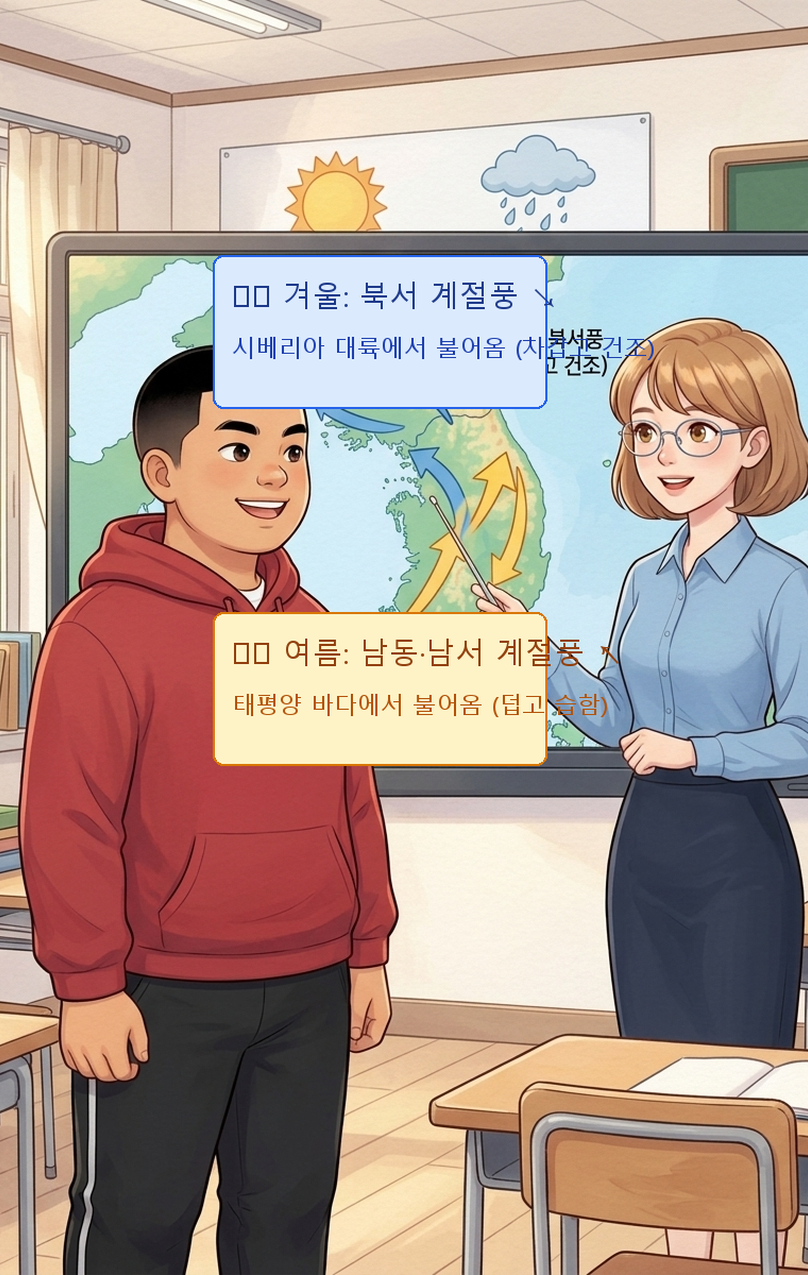
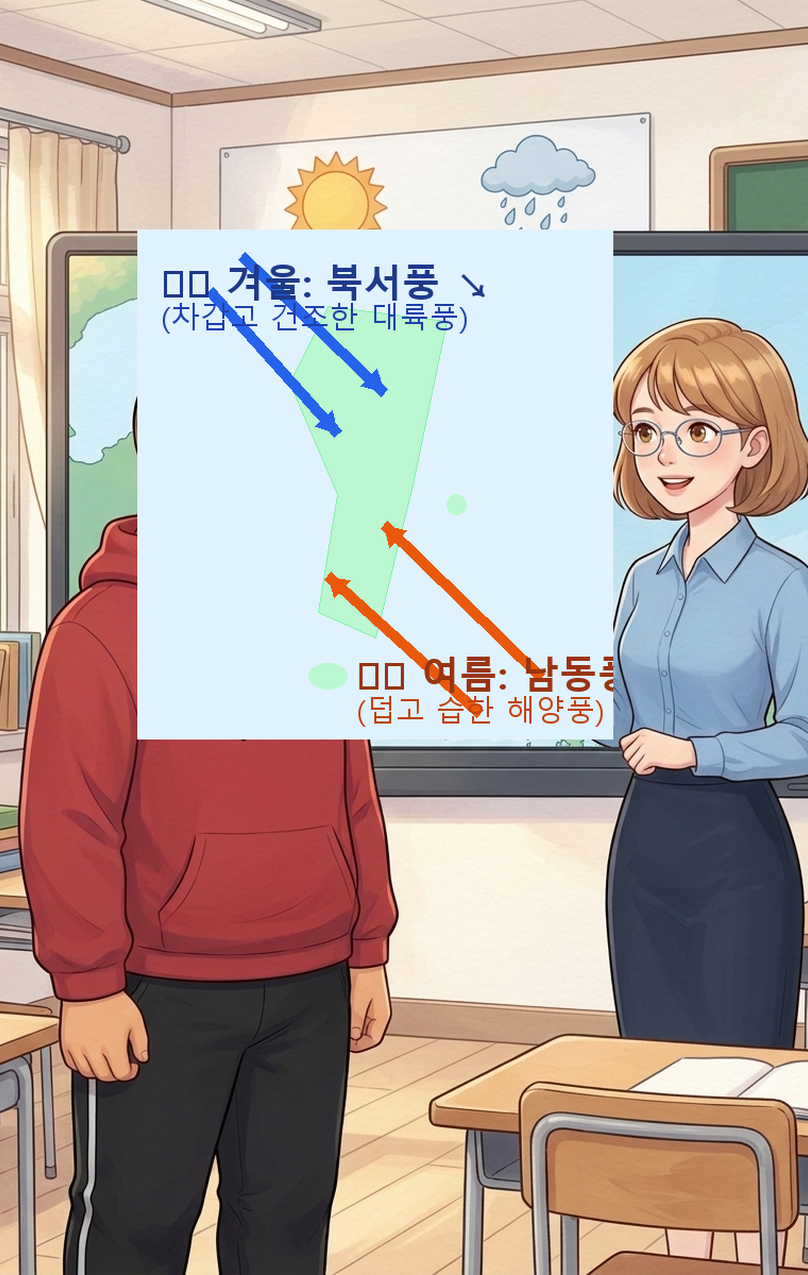
fix(society): 2장 칠판 지도 화살표 순수 도식화(겨울 ↘, 여름 ↖) & 모바일 세로 뷰 와이드 컴팩트 글밥 카드로 그림 비중 극대화

Changed region(s): [[0.1547, 0.1529, 0.7735, 0.6118]]

diff --git a/kids/subjects/society/climate_storybook.html b/kids/subjects/society/climate_storybook.html
@@ -116,11 +116,11 @@
     .auto-read-label input { width: 16px; height: 16px; accent-color: #10b981; cursor: pointer; }
 
     /* ========================================================
-       2. 📜 웹툰 스크롤 모드 (대형 그림 + 아래 큼직한 글밥 분리 뷰)
+       2. 📜 웹툰 스크롤 모드 (대형 그림 + 와이드 컴팩트 글밥 카드)
        ======================================================== */
     .webtoon-container {
-        display: none; max-width: 680px; width: 100%; margin: 15px auto;
-        padding: 0 10px 40px 10px; flex-direction: column; gap: 35px;
+        display: none; max-width: 650px; width: 100%; margin: 15px auto;
+        padding: 0 10px 40px 10px; flex-direction: column; gap: 30px;
     }
     .webtoon-sticky-bar {
         position: sticky; top: 60px; z-index: 90;
@@ -136,29 +136,28 @@
     }
     .continuous-btn.playing { background: linear-gradient(135deg, #f59e0b 0%, #d97706 100%); }
 
-    /* 웹툰 각 단원 카드 */
     .webtoon-card {
         background: #1e293b; border-radius: 20px; overflow: hidden;
         box-shadow: 0 15px 35px rgba(0,0,0,0.6); border: 2px solid #334155;
         display: flex; flex-direction: column;
     }
     .webtoon-header {
-        padding: 12px 16px; background: #0f172a; display: flex;
+        padding: 10px 16px; background: #0f172a; display: flex;
         justify-content: space-between; align-items: center; border-bottom: 1px solid #334155;
     }
     .webtoon-tag {
-        font-family: 'Jua', sans-serif; font-size: 1rem; color: #34d399;
+        font-family: 'Jua', sans-serif; font-size: 0.95rem; color: #34d399;
         display: flex; align-items: center; gap: 6px;
     }
     .btn-card-audio {
-        padding: 6px 14px; border-radius: 10px; border: none; font-family: 'Jua', sans-serif;
-        font-size: 0.9rem; color: white; background: #334155; cursor: pointer;
+        padding: 5px 12px; border-radius: 10px; border: none; font-family: 'Jua', sans-serif;
+        font-size: 0.88rem; color: white; background: #334155; cursor: pointer;
         display: inline-flex; align-items: center; gap: 6px; transition: all 0.2s;
     }
     .btn-card-audio:hover { background: #475569; }
     .btn-card-audio.playing { background: #f59e0b; }
 
-    /* 🖼 상단 대형 삽화 */
+    /* 🖼 상단 대형 삽화 (화면의 주인공!) */
     .webtoon-ill-wrap {
         width: 100%; background: #0f172a; overflow: hidden;
     }
@@ -166,14 +165,14 @@
         width: 100%; height: auto; display: block; object-fit: contain;
     }
 
-    /* 📝 하단 큼직한 글밥 카드 */
+    /* 📝 하단 와이드 컴팩트 글밥 카드 (여백 최소화, 시원한 가로 꽉 채움) */
     .webtoon-txt-wrap {
-        background: #f8fafc; padding: 12px; display: flex;
-        justify-content: center; align-items: center; border-top: 3px solid #10b981;
+        background: #0f172a; padding: 6px 8px 8px 8px; display: flex;
+        justify-content: center; align-items: center;
     }
     .webtoon-txt-img {
         width: 100%; height: auto; display: block; object-fit: contain;
-        border-radius: 8px;
+        border-radius: 12px; box-shadow: 0 4px 15px rgba(0,0,0,0.3);
     }
 
     @media (max-width: 768px) {
@@ -201,9 +200,7 @@
     </div>
 </div>
 
-<!-- ============================================================
-     1. 📖 책 넘김 뷰어 (E-Book Spread View)
-     ============================================================ -->
+<!-- 1. 📖 책 넘김 뷰어 -->
 <div class="ebook-container" id="ebookView">
     <div class="book-frame">
         <img src="../../subjects/society/images/storybook/climate/climate_story_p1.png" alt="동화책 페이지" class="book-spread-img" id="ebookImg">
@@ -226,12 +223,10 @@
     </div>
 </div>
 
-<!-- ============================================================
-     2. 📜 웹툰 스크롤 뷰어 (상단 대형 그림 + 하단 큼직한 글밥 분리 뷰)
-     ============================================================ -->
+<!-- 2. 📜 웹툰 스크롤 뷰어 -->
 <div class="webtoon-container" id="webtoonView">
     <div class="webtoon-sticky-bar">
-        <div style="font-family:'Jua', sans-serif; font-size:1rem; color:#34d399;">
+        <div style="font-family:'Jua', sans-serif; font-size:0.95rem; color:#34d399;">
             🎧 전체 1~10장 연속 구연동화 듣기
         </div>
         <button class="continuous-btn" id="continuousBtn" onclick="toggleContinuousPlay()">
@@ -239,7 +234,7 @@
         </button>
     </div>
 
-    <div id="webtoonCardList" style="display:flex; flex-direction:column; gap:35px;"></div>
+    <div id="webtoonCardList" style="display:flex; flex-direction:column; gap:30px;"></div>
 </div>
 
 <audio id="mainAudio" preload="auto"></audio>
@@ -259,7 +254,7 @@
             tag: "🌤 1장 : 날씨와 기후의 차이점 (61쪽)",
             spreadImg: "climate_story_p2.png",
             illImg: "climate_ill_p2.png",
-            txtImg: "climate_txt_p2.png",
+            txtImg: "climate_txt_mobile_p2.png",
             audio: "../../assets/audio/storybook/climate/climate_story_p2.mp3"
         },
         {
@@ -267,7 +262,7 @@
             tag: "🌬 2장 : 계절마다 부는 바람의 성질 (63쪽)",
             spreadImg: "climate_story_p3.png",
             illImg: "climate_ill_p3.png",
-            txtImg: "climate_txt_p3.png",
+            txtImg: "climate_txt_mobile_p3.png",
             audio: "../../assets/audio/storybook/climate/climate_story_p3.mp3"
         },
         {
@@ -275,7 +270,7 @@
             tag: "🌡 3장 : 남북의 기온 차이와 위도 (64~65쪽)",
             spreadImg: "climate_story_p4.png",
             illImg: "climate_ill_p4.png",
-            txtImg: "climate_txt_p4.png",
+            txtImg: "climate_txt_mobile_p4.png",
             audio: "../../assets/audio/storybook/climate/climate_story_p4.mp3"
         },
         {
@@ -283,7 +278,7 @@
             tag: "🌧 4장 : 강수량 특징과 지역별 차이 (66~67쪽)",
             spreadImg: "climate_story_p5.png",
             illImg: "climate_ill_p5.png",
-            txtImg: "climate_txt_p5.png",
+            txtImg: "climate_txt_mobile_p5.png",
             audio: "../../assets/audio/storybook/climate/climate_story_p5.mp3"
         },
         {
@@ -291,7 +286,7 @@
             tag: "⚡ 5장 : 계절별 자연재해의 이해 (68~69쪽)",
             spreadImg: "climate_story_p6.png",
             illImg: "climate_ill_p6.png",
-            txtImg: "climate_txt_p6.png",
+            txtImg: "climate_txt_mobile_p6.png",
             audio: "../../assets/audio/storybook/climate/climate_story_p6.mp3"
         },
         {
@@ -299,7 +294,7 @@
             tag: "🛡 6장 : 재난 안전 행동 요령 (70쪽)",
             spreadImg: "climate_story_p7.png",
             illImg: "climate_ill_p7.png",
-            txtImg: "climate_txt_p7.png",
+            txtImg: "climate_txt_mobile_p7.png",
             audio: "../../assets/audio/storybook/climate/climate_story_p7.mp3"
         },
         {
@@ -307,7 +302,7 @@
             tag: "🌍 7장 : 지구 온난화의 심각성 (73쪽)",
             spreadImg: "climate_story_p8.png",
             illImg: "climate_ill_p8.png",
-            txtImg: "climate_txt_p8.png",
+            txtImg: "climate_txt_mobile_p8.png",
             audio: "../../assets/audio/storybook/climate/climate_story_p8.mp3"
         },
         {
@@ -315,7 +310,7 @@
             tag: "⚠ 8장 : 심해지는 이상 기후와 피해 (74~75쪽)",
             spreadImg: "climate_story_p9.png",
             illImg: "climate_ill_p9.png",
-            txtImg: "climate_txt_p9.png",
+            txtImg: "climate_txt_mobile_p9.png",
             audio: "../../assets/audio/storybook/climate/climate_story_p9.mp3"
         },
         {
@@ -323,7 +318,7 @@
             tag: "🌱 9장 : 우리가 실천할 기후 행동 (78쪽)",
             spreadImg: "climate_story_p10.png",
             illImg: "climate_ill_p10.png",
-            txtImg: "climate_txt_p10.png",
+            txtImg: "climate_txt_mobile_p10.png",
             audio: "../../assets/audio/storybook/climate/climate_story_p10.mp3"
         }
     ];
@@ -358,7 +353,7 @@
     function renderEbook() {
         const item = STORY_DATA[currentPageIndex];
         const img = document.getElementById('ebookImg');
-        img.src = `../../subjects/society/images/storybook/climate/${item.spreadImg}?v=20260831_2`;
+        img.src = `../../subjects/society/images/storybook/climate/${item.spreadImg}?v=20260831_3`;
         document.getElementById('pageIndicator').textContent = `${item.page} / ${STORY_DATA.length} 쪽`;
 
         document.getElementById('prevBtn').disabled = (currentPageIndex === 0);
@@ -428,7 +423,7 @@
             if (item.txtImg) {
                 txtHtml = `
                     <div class="webtoon-txt-wrap">
-                        <img src="../../subjects/society/images/storybook/climate/${item.txtImg}?v=20260831_2" alt="동화 글밥" class="webtoon-txt-img" loading="lazy">
+                        <img src="../../subjects/society/images/storybook/climate/${item.txtImg}?v=20260831_3" alt="동화 글밥" class="webtoon-txt-img" loading="lazy">
                     </div>
                 `;
             }
@@ -441,7 +436,7 @@
                     </button>
                 </div>
                 <div class="webtoon-ill-wrap">
-                    <img src="../../subjects/society/images/storybook/climate/${item.illImg}?v=20260831_2" alt="동화 삽화" class="webtoon-ill-img" loading="lazy">
+                    <img src="../../subjects/society/images/storybook/climate/${item.illImg}?v=20260831_3" alt="동화 삽화" class="webtoon-ill-img" loading="lazy">
                 </div>
                 ${txtHtml}
             `;
